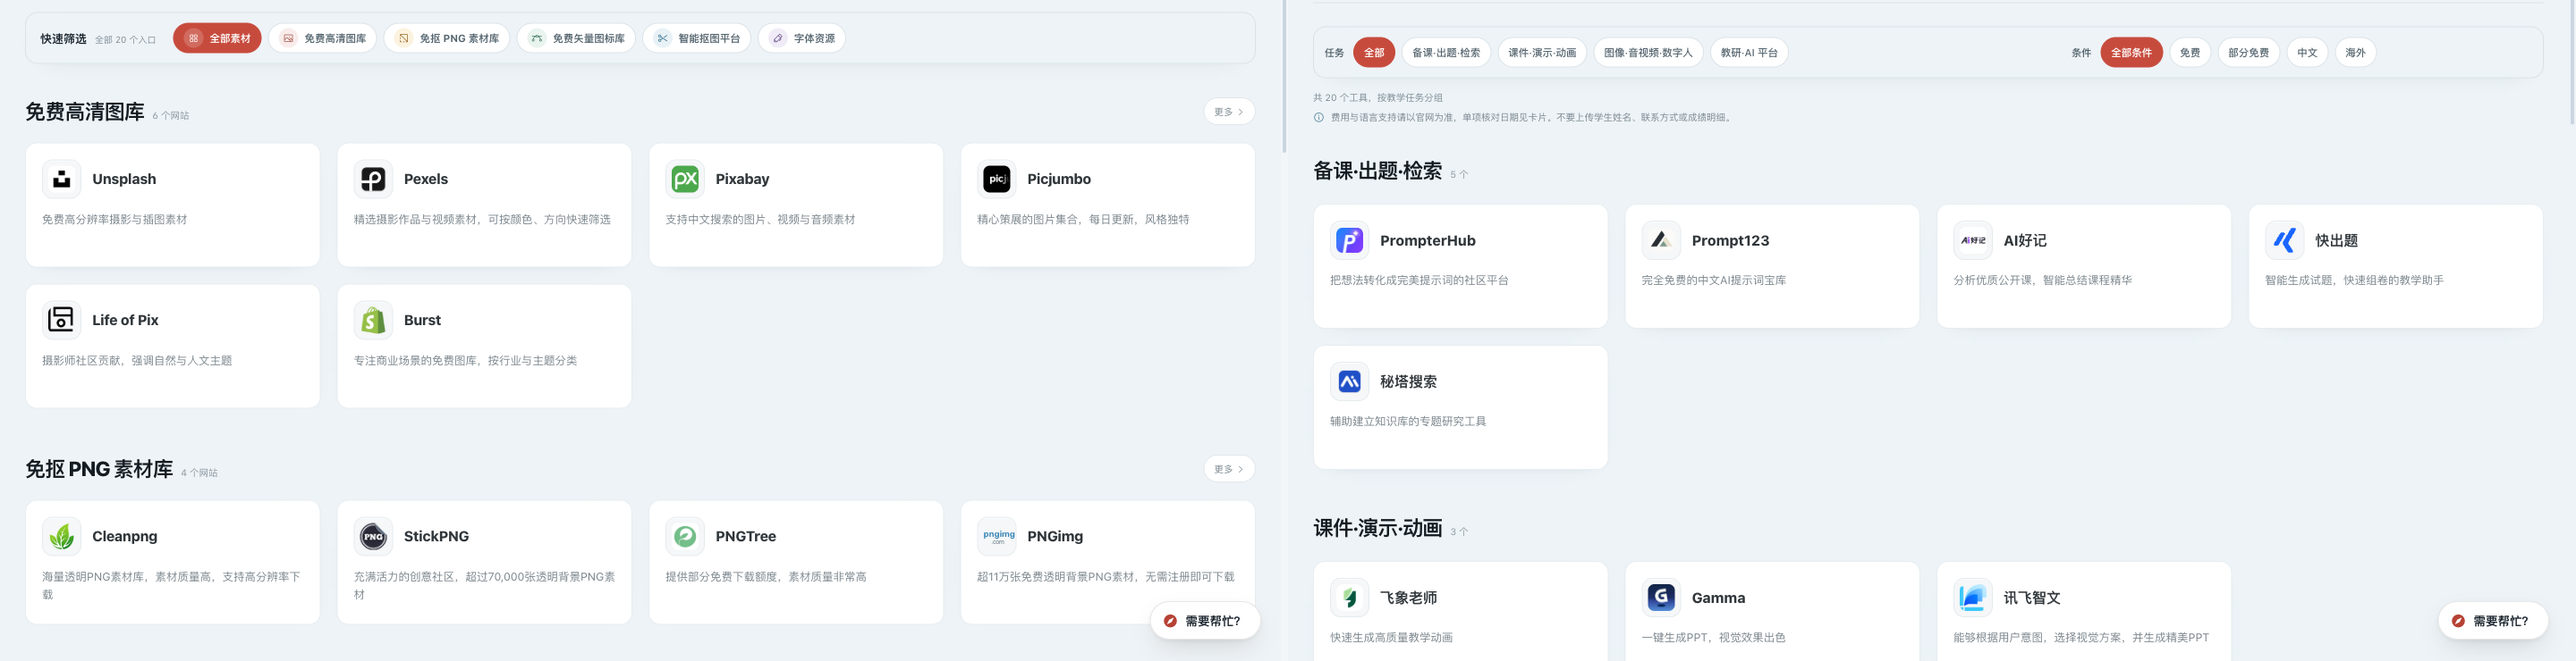
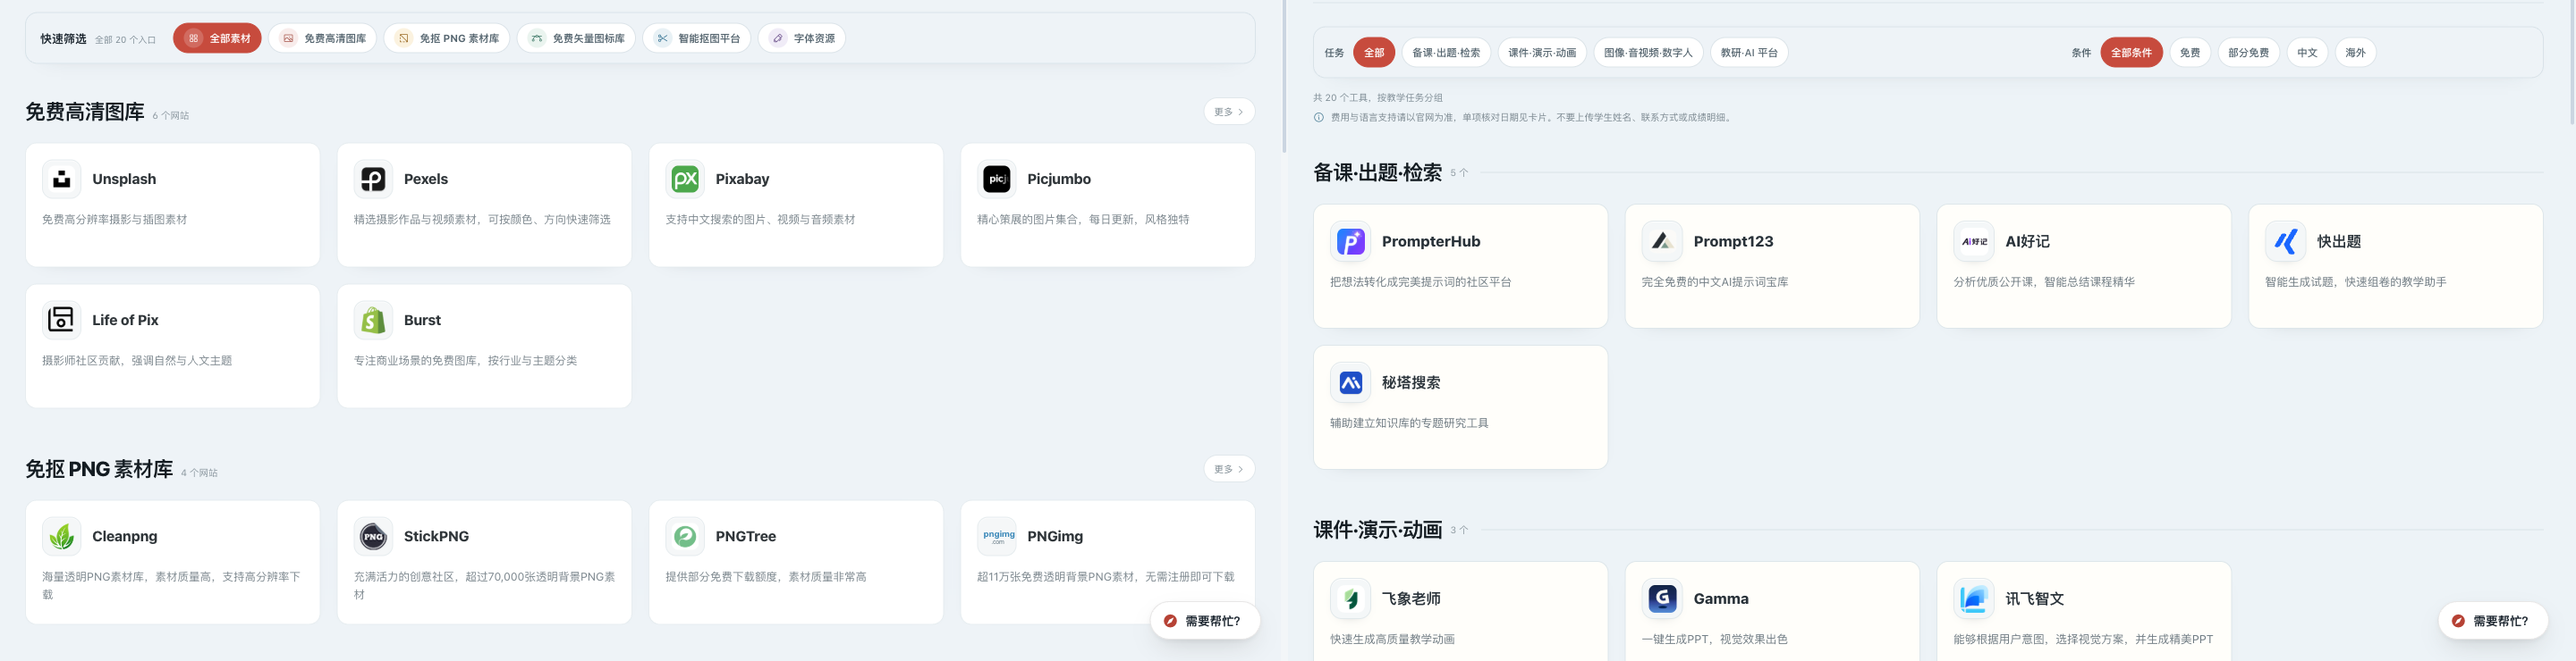
Polish tools directory cards

diff --git a/tools.html b/tools.html
@@ -201,11 +201,19 @@
         .tt-section-head {
             display: flex;
             min-height: 38px;
-            align-items: baseline;
+            align-items: center;
             gap: 9px;
             margin: 0 0 16px;
             padding: 0;
             border: 0;
+        }
+        .tt-section-head::after {
+            content: "";
+            height: 1px;
+            min-width: 36px;
+            flex: 1;
+            margin-left: 5px;
+            background: #d9e3e8;
         }
         .tt-section-icon { display: none; }
         .tt-section-title { color: #141c22; font-size: 23px; font-weight: 790; letter-spacing: -.035em; }
@@ -219,48 +227,55 @@
         .tt-tool-card {
             min-height: 140px;
             padding: 18px;
-            border: 1px solid rgba(221,229,234,.7);
+            border: 1px solid #dde6ea;
             border-radius: 13px;
-            background: #fff;
-            box-shadow: 0 7px 22px -23px rgba(19,34,44,.62);
+            background: #fffefa;
+            box-shadow: 0 8px 24px -24px rgba(20,35,45,.56);
             cursor: pointer;
             overflow: hidden;
             animation: none !important;
             transition: border-color .16s, box-shadow .16s, transform .16s;
         }
-        .tt-tool-card:hover { border-color: #c5d2d8; box-shadow: 0 14px 28px -24px rgba(21,37,47,.48); transform: translateY(-2px); }
+        #tools-grid .tt-tool-card,
+        #tools-grouped .tt-tool-card { background: #fffefa; }
+        .tt-tool-card:hover { border-color: #bdcbd2; box-shadow: 0 15px 30px -23px rgba(21,37,47,.48); transform: translateY(-2px); }
+        .tt-tool-card:active { transform: translateY(0); }
         .tt-tool-card:focus-visible { outline: 3px solid rgba(60,112,137,.3); outline-offset: 3px; }
         .tt-card-top { display: flex; width: 100%; align-items: center; justify-content: flex-start; gap: 12px; margin: 0 0 12px; text-align: left; }
         .tt-tool-logo {
             position: relative;
             display: grid;
-            width: 44px;
-            height: 44px;
-            flex: 0 0 44px;
+            width: 46px;
+            height: 46px;
+            flex: 0 0 46px;
             place-items: center;
             overflow: hidden;
-            padding: 6px;
-            border: 1px solid #e5ebee;
-            border-radius: 12px;
-            background: #f5f7f8;
-            box-shadow: inset 0 1px 0 rgba(255,255,255,.72);
+            padding: 7px;
+            border: 1px solid #e1e8eb;
+            border-radius: 13px;
+            background: #f4f7f8;
+            box-shadow: inset 0 1px 0 rgba(255,255,255,.82), 0 5px 14px -13px rgba(25,42,52,.7);
+            transition: border-color .16s, box-shadow .16s, transform .16s;
         }
-        .tt-tool-logo img { width: 30px; height: 30px; border-radius: 7px; object-fit: contain; }
+        .tt-tool-logo img { width: 31px; height: 31px; border-radius: 7px; object-fit: contain; }
         .tt-tool-logo.tt-tool-logo-dark { border-color: #202328; background: #0c0d0f; }
         .tt-tool-logo-fallback { display: grid; width: 30px; height: 30px; place-items: center; border-radius: 7px; font-size: 17px; }
         .tt-tool-logo img + .tt-tool-logo-fallback { display: none; }
         .tt-tool-logo.is-fallback img { display: none; }
         .tt-tool-logo.is-fallback .tt-tool-logo-fallback { display: grid; }
-        .tt-tool-name { min-width: 0; margin: 0; color: #30363a; font-size: 16px; font-weight: 760; line-height: 1.3; }
+        .tt-tool-name { min-width: 0; margin: 0; color: #293239; font-size: 16.5px; font-weight: 780; line-height: 1.3; transition: color .16s; }
+        .tt-tool-card:hover .tt-tool-logo { border-color: #c7d3d9; box-shadow: inset 0 1px 0 rgba(255,255,255,.85), 0 8px 18px -13px rgba(25,42,52,.72); transform: translateY(-1px) scale(1.03); }
+        .tt-tool-card:hover .tt-tool-name,
+        .tt-tool-card:focus-visible .tt-tool-name { color: #b74337; }
         .tt-tool-desc {
             display: -webkit-box;
             flex: 0 0 auto;
             min-height: 40px;
             margin: 0;
             overflow: hidden;
-            color: #7a858c;
-            font-size: 12.5px;
-            line-height: 1.65;
+            color: #6e7a82;
+            font-size: 12.7px;
+            line-height: 1.62;
             -webkit-box-orient: vertical;
             -webkit-line-clamp: 2;
         }
@@ -285,6 +300,13 @@
             #tools-grid, #tools-grouped .cards-grid { grid-template-columns: 1fr; gap: 12px; }
             .tt-tool-card { min-height: 140px; padding: 17px; }
             .tt-card-top { float: none; margin: 0 0 12px; }
+        }
+        @media (prefers-reduced-motion: reduce) {
+            .tt-tool-card,
+            .tt-tool-logo,
+            .tt-tool-name { transition: none; }
+            .tt-tool-card:hover,
+            .tt-tool-card:hover .tt-tool-logo { transform: none; }
         }
     </style>
 </head>

diff --git a/design-qa.md b/design-qa.md
@@ -30,9 +30,27 @@
 - 字体与排版：页面标题、筛选标签、分区标题和卡片文字层级与课件素材页一致。
 - 间距与布局：1440 px 显示四列、1180 px 以下三列、860 px 以下两列、760 px 以下单列。
 - 卡片高度：使用 140 px 基础高度，内容较长时可自然撑开，避免固定比例造成大块留白。
-- Logo 一致性：20 个工具都使用 44×44 px 圆角方形底板，并全部改用对应官网提供的 Logo 或站点图标；加载失败与图标回退数量均为 0。
-- 交互：筛选按钮带有可读的选中状态，卡片保留悬停和键盘焦点反馈；取消全局滚动淡入，避免视口边缘卡片呈现半透明状态。
+- Logo 一致性：20 个工具都使用 46×46 px 圆角方形底板，并全部改用对应官网提供的 Logo 或站点图标；加载失败与图标回退数量均为 0。
+- 视觉层次：卡片改用轻微暖白背景，标题字重和说明文字对比度提高；分区标题右侧增加浅色细线，长列表的结构更清楚。
+- 交互：筛选按钮带有可读的选中状态；卡片悬停时上移 2 px，Logo 轻微放大，标题变为品牌砖红色；键盘焦点与减少动态效果偏好均有对应状态。
 - P3 / accepted：工具页保留“任务”和“条件”两套筛选以及安全提示，因为这些信息直接支持教师选择工具；课件素材页只需要单套分类筛选。
+
+## Iteration history
+
+### Iteration 1 — passed
+
+- 将工具页改为与课件素材页一致的紧凑目录布局，删除重复标签、箭头和底部操作栏。
+- 完成四列、三列、两列和手机单列响应式布局。
+
+### Iteration 2 — passed
+
+- 为 20 个工具补齐官网 Logo，统一 Logo 底板并验证加载结果。
+
+### Iteration 3 — passed
+
+- Logo 底板从 44 px 微调到 46 px，强化标题和说明文字层级。
+- 增加暖白卡片、分区细线以及克制的悬停和键盘焦点反馈。
+- 桌面与手机端卡片继续保持 140 px 基础高度，没有内容或页面横向溢出。
 
 ## Primary interactions and console check
 
@@ -49,8 +67,9 @@
 - [x] 与课件素材页一致的背景、首屏和白色卡片墙
 - [x] 桌面四列、中宽三列、平板两列、手机单列布局
 - [x] 任务与条件双重筛选、搜索、清除和空状态
-- [x] 20 个官网 Logo、统一 44×44 px 底板及失败回退
+- [x] 20 个官网 Logo、统一 46×46 px 底板及失败回退
 - [x] 左对齐卡片与精简信息层级
+- [x] 暖白卡片、分区细线和克制的悬停反馈
 - [x] 无箭头、无重复标签、无底部说明栏
 - [x] 手机端筛选横向滑动且页面无横向溢出
 - [x] 同尺寸全页与卡片区域视觉对照
